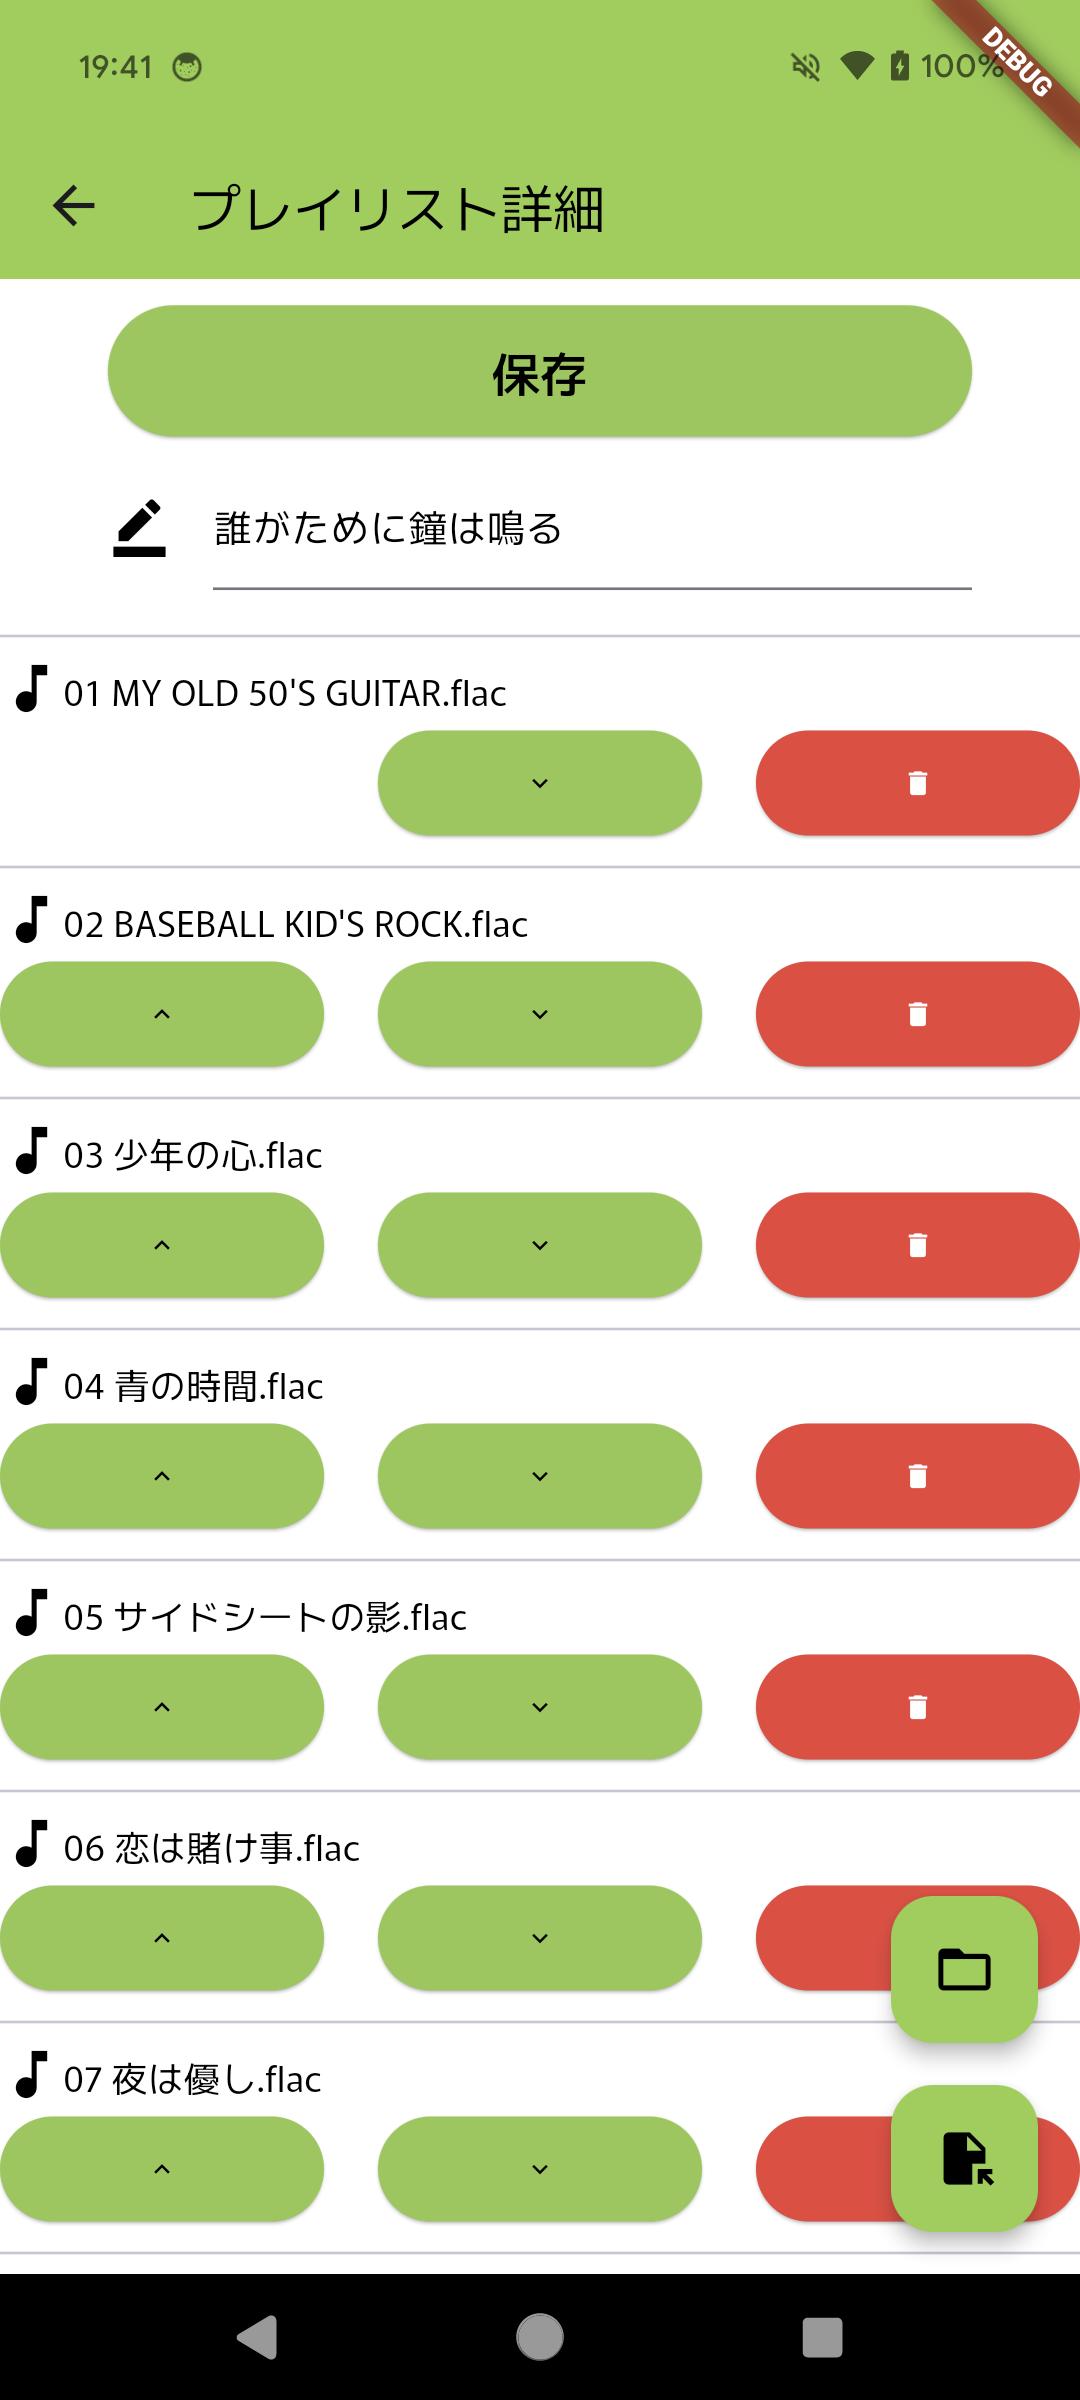
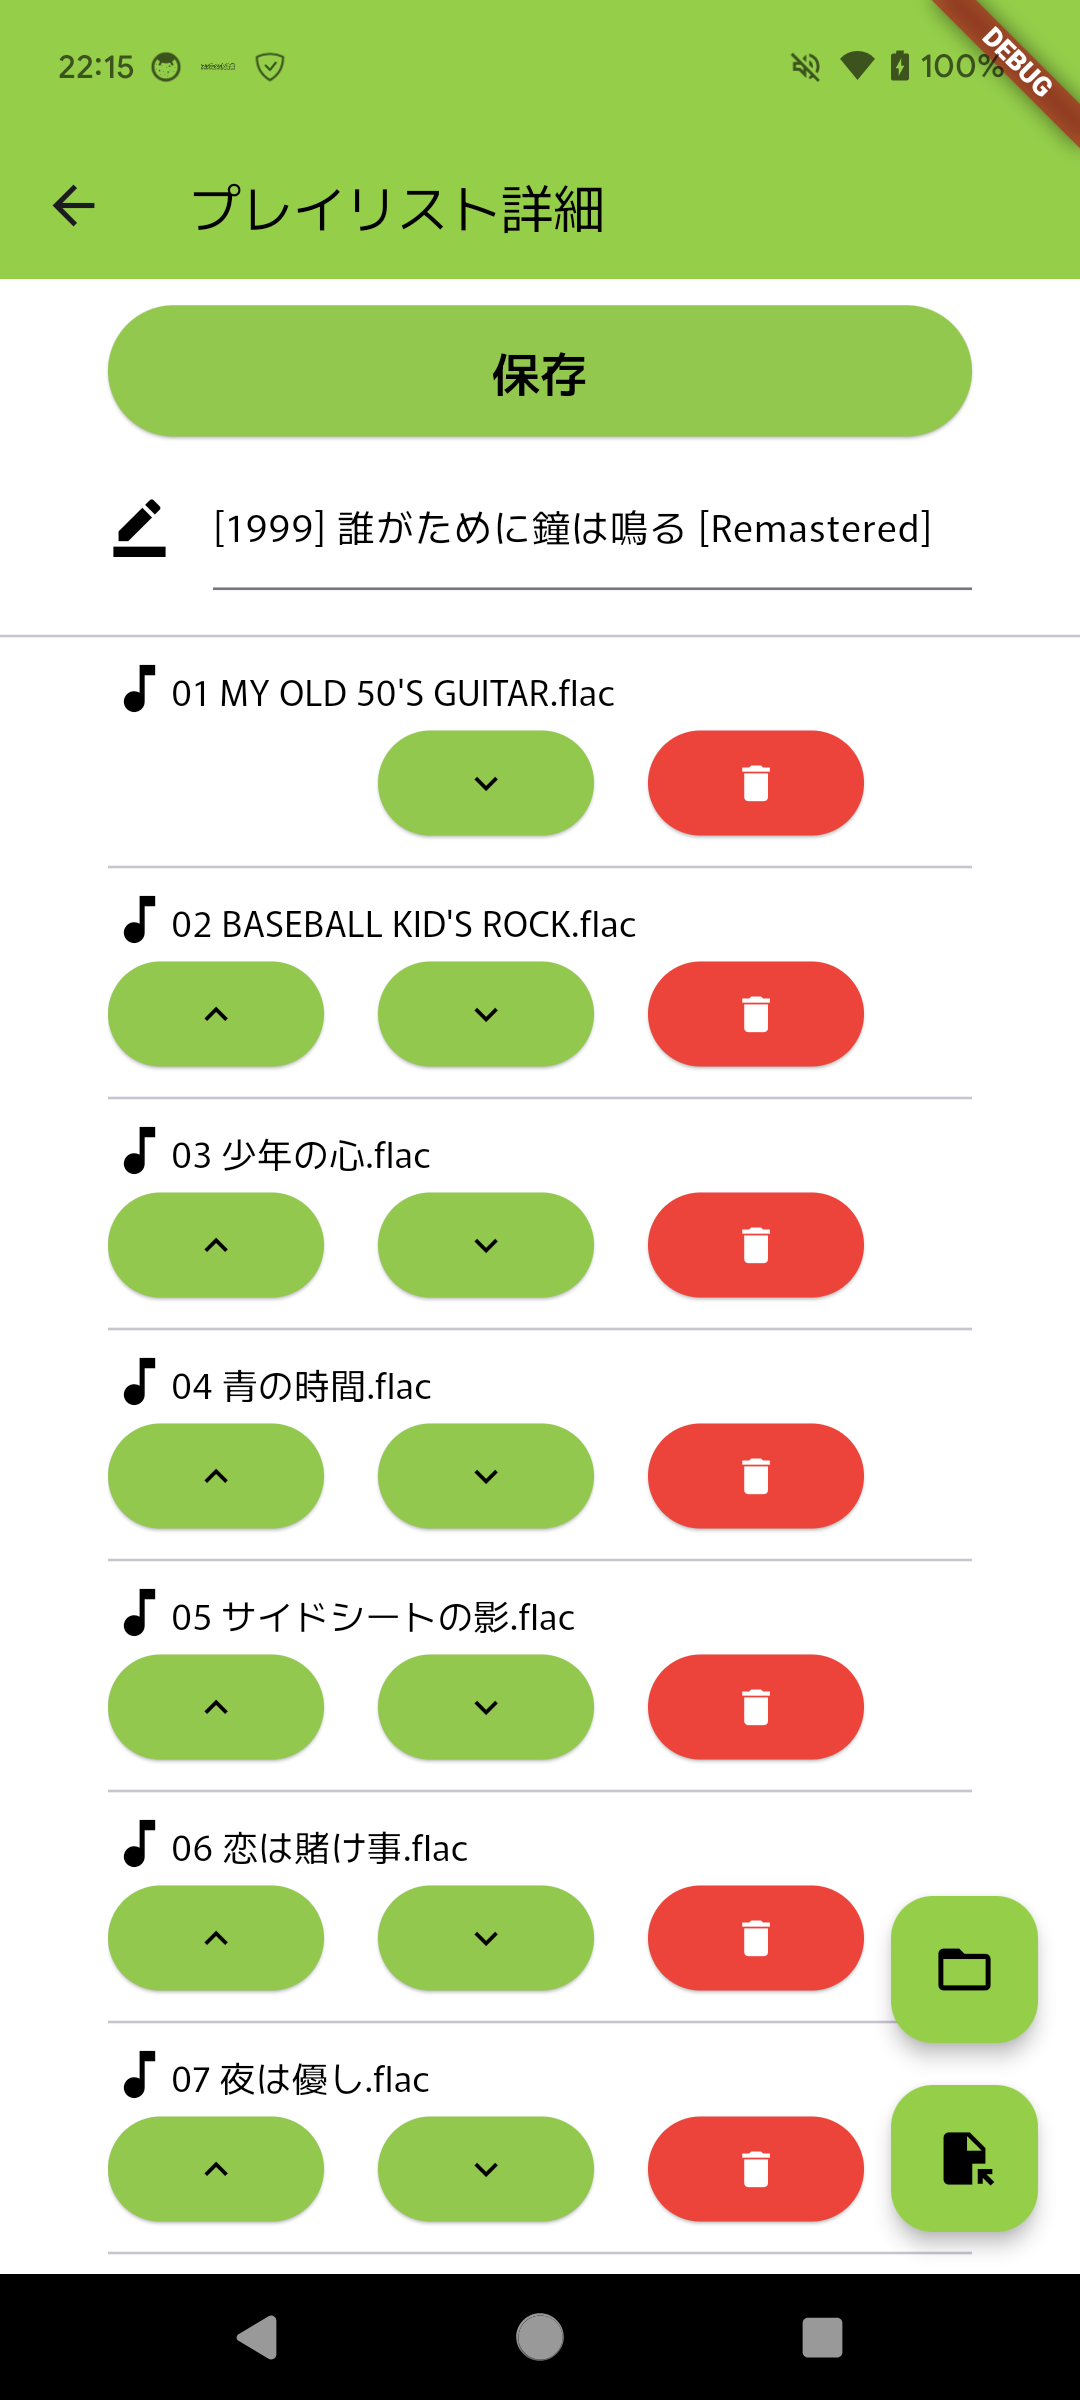
プレイリスト削除機能に関する記述を追加しました。

diff --git a/docs/guide-playlists.html b/docs/guide-playlists.html
@@ -66,8 +66,10 @@
             <div style="text-align: center;">
                 <a href="./images/playlist2.png" data-lightbox="misskey-group"><img src="./images/playlist2.png" alt=""
                         width="200"></a>
-                <a href="./images/playlist3.png" data-lightbox="misskey-group"><img src="./images/playlist3.png" alt=""
-                        width="200"></a>
+                <a href="./images/playlist3-1.png" data-lightbox="misskey-group"><img src="./images/playlist3-1.png"
+                        alt="" width="200"></a>
+                <a href="./images/playlist3-2.png" data-lightbox="misskey-group"><img src="./images/playlist3-2.png"
+                        alt="" width="200"></a>
             </div>
             <li>プレイリスト一覧画面の<span class="button-like-text">新規作成</span>ボタンを押下して、プレイリスト詳細作成画面に移動してください。</li>
             <div style="text-align: center;">
@@ -92,7 +94,8 @@
             <li>プレイリスト詳細画面の<span class="button-like-text"><span class="material-icons"
                         style="font-size: 1.2em;">folder</span></span>ボタンを押下して、フォルダ選択ダイアログを表示してください。</li>
             <li>プレイリストに登録したいフォルダを押下して、フォルダ選択ダイアログ下部の<span class="material-icons"
-                    style="font-size: 1.2em;">check_circle</span></li>を押下すると、フォルダ内の曲がすべてプレイリストに登録されます。
+                    style="font-size: 1.2em;">check_circle</span></li>を押下すると、フォルダ内の曲がすべてプレイリストに登録されます。<br>
+            また、同時に選択したフォルダ名がプレイリスト名に設定されます。
             <div style="text-align: center;">
                 <a href="./images/playlist7.png" data-lightbox="misskey-group"><img src="./images/playlist7.png" alt=""
                         width="200"></a>
@@ -133,13 +136,13 @@
             </div>
             <li>プレイリスト詳細画面上部のプレイリスト名入力欄でプレイリストの名前を入力すると、<span class="button-like-text">保存</span>ボタンが押下できるようになります。</li>
             <div style="text-align: center;">
-                <a href="./images/playlist10.png" data-lightbox="misskey-group"><img src="./images/playlist10.png" alt=""
-                        width="200"></a>
+                <a href="./images/playlist10.png" data-lightbox="misskey-group"><img src="./images/playlist10.png"
+                        alt="" width="200"></a>
             </div>
             <li><span class="button-like-text">保存</span>ボタンを押下すると、保存完了ダイアログが表示されます。</li>
             <div style="text-align: center;">
-                <a href="./images/playlist11.png" data-lightbox="misskey-group"><img src="./images/playlist11.png" alt=""
-                        width="200"></a>
+                <a href="./images/playlist11.png" data-lightbox="misskey-group"><img src="./images/playlist11.png"
+                        alt="" width="200"></a>
             </div>
             <li>保存完了ダイアログの<span class="button-like-text">OK</span>ボタンを押下すると、プレイリスト詳細画面からプレイリスト一覧画面に自動的に戻ります。</li>
             <li>プレイリスト横のボタンで、以下の操作を行うことができます。</li>
@@ -176,6 +179,37 @@
                 <p>
                     プレイリストに登録された曲がすべて削除/移動/リネームされている場合、再生に失敗します(一部の曲が残っている場合、見つかった曲だけを再生します)。その場合は曲の登録をやり直してください。
                 </p>
+            </div>
+        </ol>
+
+        <h2>プレイリストの削除</h2>
+        <h3>1つだけ削除する場合</h3>
+        <ol>
+            <li>プレイリスト一覧画面で、削除したいプレイリストの<span class="button-like-text"><span class="material-icons"
+                        style="font-size: 1.2em;">delete</span></span>を押下してください。</li>
+            <li>確認ダイアログで<span class="button-like-text">OK</span>を押下してください。</li>
+            <div style="text-align: center;">
+                <a href="./images/playlist12.png" data-lightbox="misskey-group"><img src="./images/playlist12.png"
+                        alt="" width="200"></a>
+            </div>
+            <li>削除が完了すると、トーストメッセージが表示されます。</li>
+            <div style="text-align: center;">
+                <a href="./images/playlist13.png" data-lightbox="misskey-group"><img src="./images/playlist13.png"
+                        alt="" width="200"></a>
+            </div>
+        </ol>
+        <h3>すべてのプレイリストを削除する場合</h3>
+        <ol>
+            <li>プレイリスト一覧画面で、<span class="button-like-text">全てのプレイリストを削除</span>を押下してください。</li>
+            <li>確認ダイアログで<span class="button-like-text">OK</span>を押下してください。</li>
+            <div style="text-align: center;">
+                <a href="./images/playlist14.png" data-lightbox="misskey-group"><img src="./images/playlist14.png"
+                        alt="" width="200"></a>
+            </div>
+            <li>削除が完了すると、トーストメッセージが表示されます。</li>
+            <div style="text-align: center;">
+                <a href="./images/playlist15.png" data-lightbox="misskey-group"><img src="./images/playlist15.png"
+                        alt="" width="200"></a>
             </div>
         </ol>
     </div>
